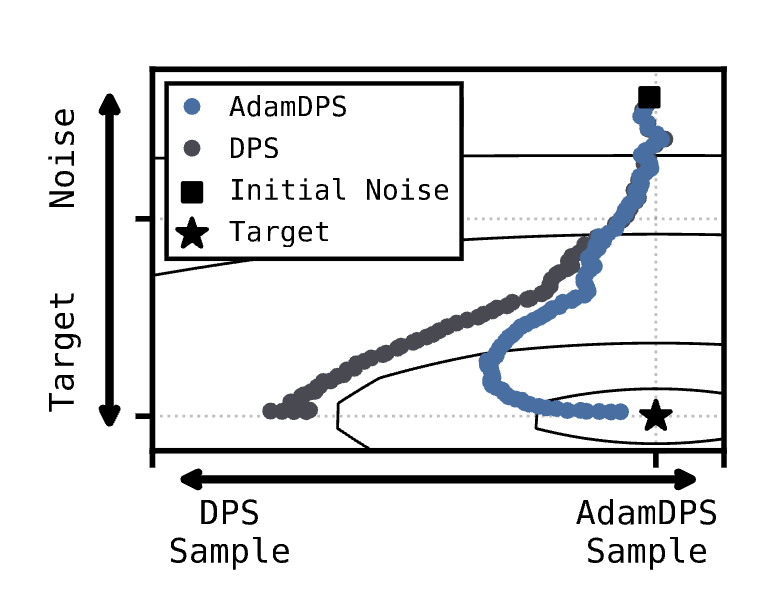
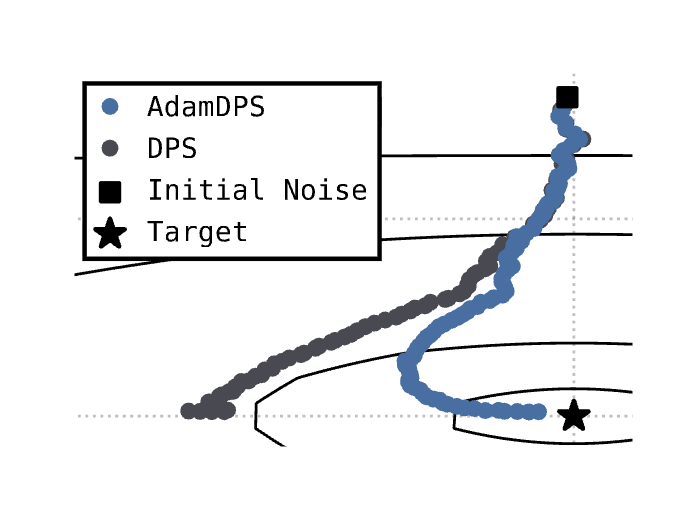
added data constrained scaling laws

Changed region(s): [[0.0604, 0.0914, 0.9367, 0.9448], [0.2115, 0.8533, 0.3928, 0.9143]]

diff --git a/index.html b/index.html
@@ -105,7 +105,7 @@
     </main>
 
     <footer>
-        <p>Last updated: March 2026.</p>
+        <p>Last updated: June 2026.</p>
     </footer>
 
     <div id="imageModal" class="modal">
